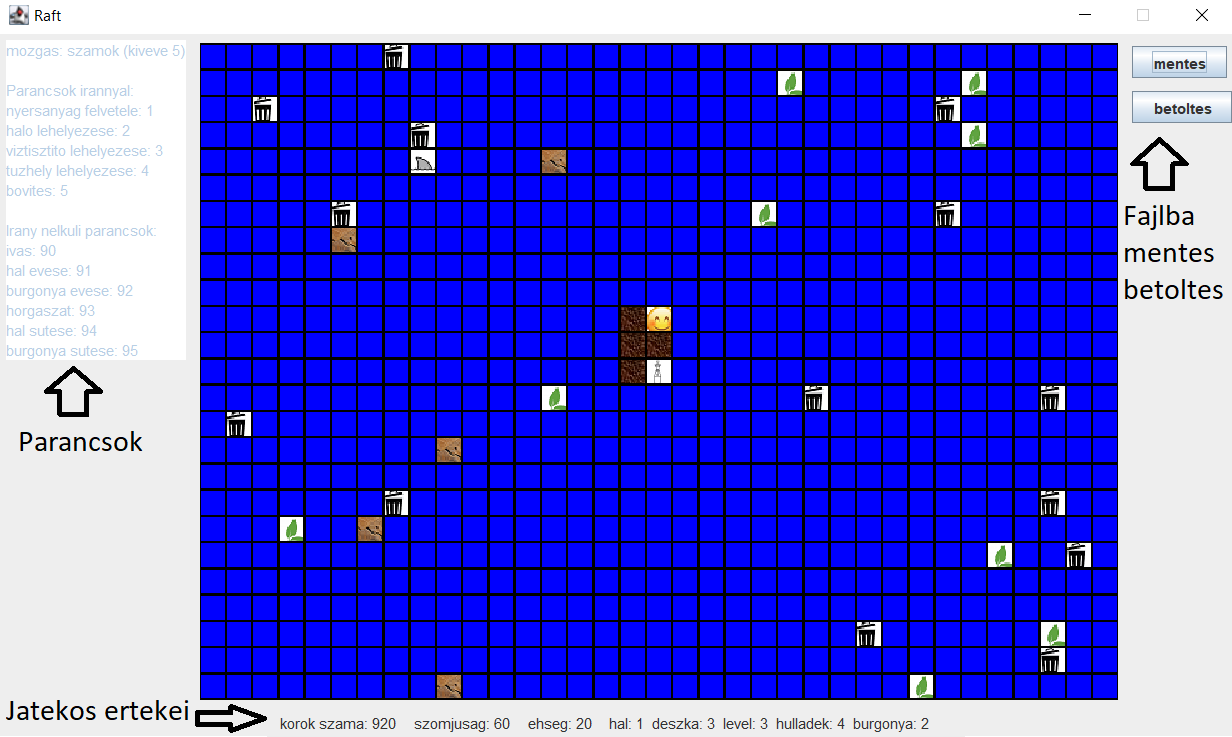
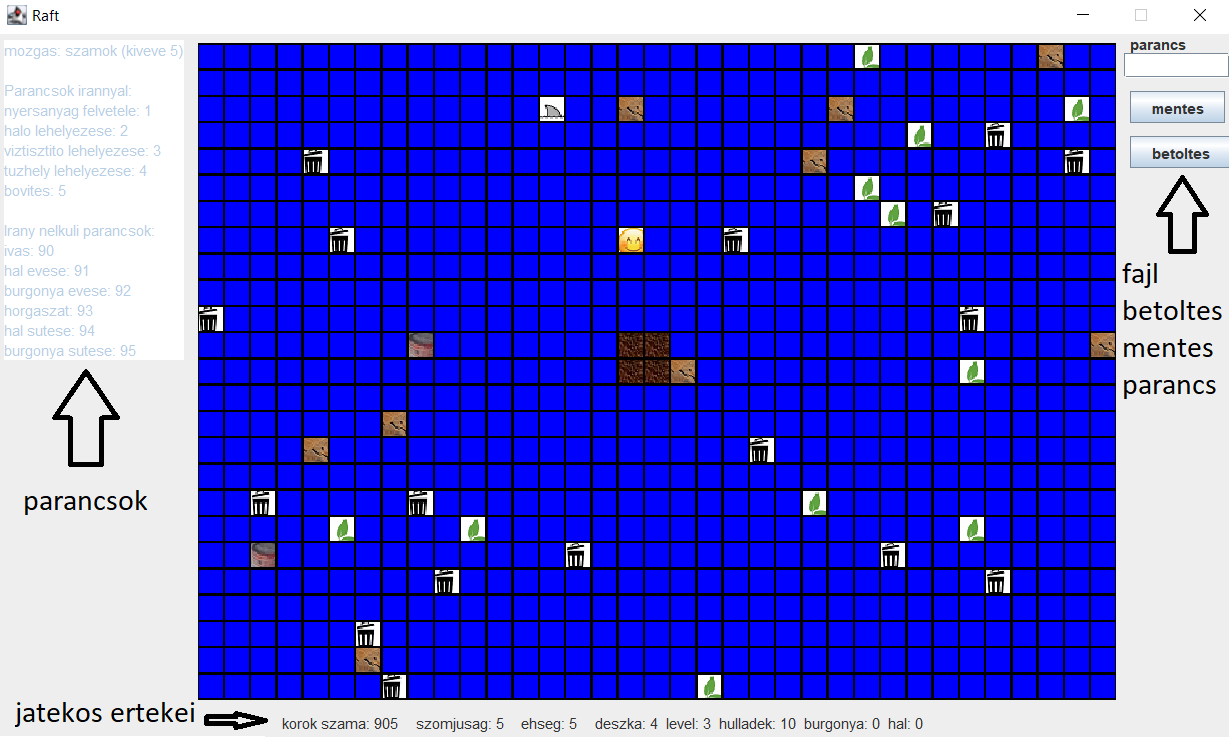
proba

diff --git a/README.md b/README.md
@@ -1,6 +1,8 @@
 ## Raft
 ![picture](resources/jatek.png)
-A jatekost a terminalba megadott szamkombinaciokkal lehet iranyitani, es kulonbozo cselekveseket vegrehajtatni vele.
+
+
+A jatekost a parancs rublikaba megadott szamkombinaciokkal lehet iranyitani, es kulonbozo cselekveseket vegrehajtatni vele.
 ~~~~
 A parancsok ugy épulnek fel hogy a mozgatas 1-9-ig
 (1:balle , 2:le, 3:jobble, 4:bal, 6:jobb, 7:balfel, 8:fel, 9:jobbfel)
@@ -29,7 +31,7 @@ Halatsut:94
 
 Burgonyatsut:95.
 ~~~~
-####A Termekek arai: 
+#### A Termekek arai: 
 ~~~~
 Halo: 2*deszka + 6*level
 
@@ -41,3 +43,5 @@ Teruletbovites: 2*deszka + 2*level.
 ~~~~
 A tuzhely sehol nem irja ki hogy hogy all az epp felrakot burgony igy azt erdemes lehet szamolni a viztisztito szinten nem irja ki
 , mindketto 25 cselekves allat vegez a feladataval tehat keszit egy pohar vizet es suti keszre az etelt.
+
+A JavaDoc- bol legeneralt HTML fajlt a docs mappaban index.html alatt talalni
